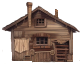
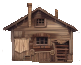
Polish templates

diff --git a/src/def/Templates.js b/src/def/Templates.js
@@ -127,7 +127,8 @@ export class Templates {
                         type: "image-template",
                         imageData: _ASSET_ROCK_LG_2,
                         brush: "wall",
-                        threshold: 50
+                        threshold: 50,
+                        randomFlipHorizontally: true
                     }
                 ]
             }
